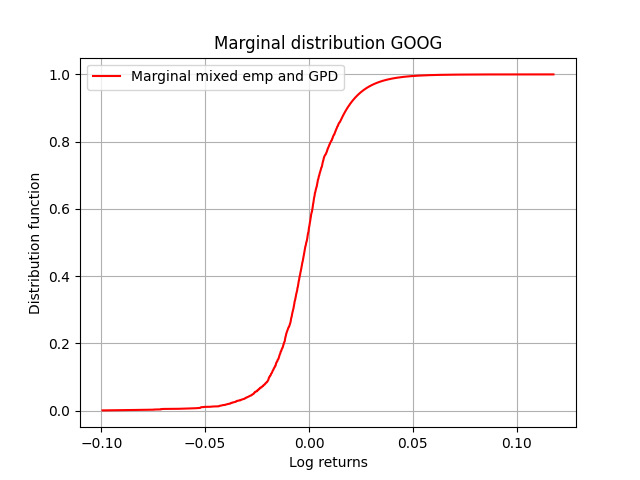
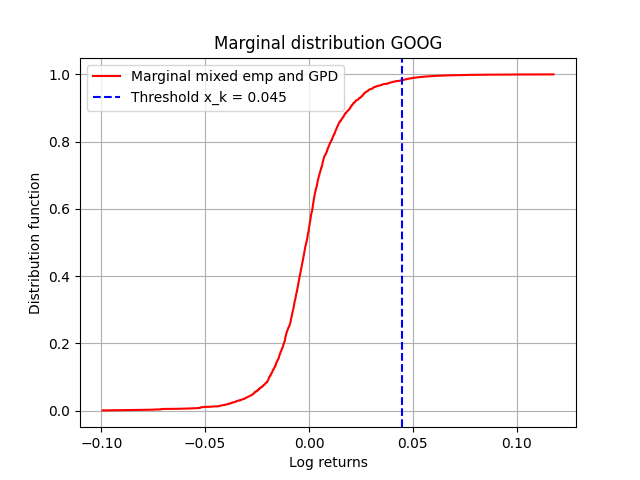
multivariate t-dist fit, only df's

Changed region(s): [[0.125, 0.1875, 0.5, 0.25], [0.5312, 0.125, 0.7188, 0.25]]

diff --git a/Mandatory assignment.py b/Mandatory assignment.py
@@ -276,24 +276,25 @@ fig, ax = plt.subplots(nrows=1, ncols=2, figsize=(10, 5))
 # Plot Google & Microsoft
 ax1 = ax[0]
 ax1.scatter(goog_neg, msft_neg, color='blue', s=1, label="Empirical Data")
-ax1.scatter(sim_goog, sim_msft, color='red', s=1, alpha=0.5, label="Simulated Data")
+ax1.scatter(sim_goog, sim_msft, color='red', s=1, alpha=0.5, label=f"Simulated Data (df={nu_pf1:.2f})")
 ax1.grid()
 ax1.set_xlabel('Google')
 ax1.set_ylabel('Microsoft')
-ax1.set_title('Log Returns: Google & Microsoft')
+ax1.set_title('Negative Log Returns: Google & Microsoft')
 ax1.legend()
 
 # Plot Merck & IDU
 ax2 = ax[1]
 ax2.scatter(mrk_neg, idu_neg, color='blue', s=1, label="Empirical Data")
-ax2.scatter(sim_mrk, sim_idu, color='red', s=1, alpha=0.5, label="Simulated Data")
+ax2.scatter(sim_mrk, sim_idu, color='red', s=1, alpha=0.5, label=f"Simulated Data (df={nu_pf2:.2f})")
 ax2.grid()
 ax2.set_xlabel('Merck')
 ax2.set_ylabel('IDU')
-ax2.set_title('Log Returns: Merck & IDU')
+ax2.set_title('Negative Log Returns: Merck & IDU')
 ax2.legend()
 
 fig.tight_layout()
+plt.savefig('Figures/Multivariate-t_plot.png')
 plt.show()
 
 ### 4. Copula approach.
@@ -303,18 +304,19 @@ plt.show()
 # Over u, use Pareto Tail.
 i_list = [0,1,2,3]
 for X,thres,name,i in zip([goog_neg,msft_neg,mrk_neg,idu_neg],u_list,name_list,i_list):
-    x_sorted = - np.sort(-X) # Sort decending. 
+    x_sorted = - np.sort(-X) # Sort descending. 
     n = x_sorted.shape[0]
     beta_est = beta_list[i]
-    gamma_est = beta_list[i]
-    # Get exesses axcross 
-    F_marginal = u.GPD_emp(np.sort(x_sorted),x_k,beta_est,gamma_est)
-    F_emp = np.cumsum(np.ones(n)*1/(n))
+    gamma_est = gamma_list[i]
+    # Get excesses across 
+    x_k = thres
+    F_marginal = u.GPD_emp(np.sort(x_sorted), x_k, beta_est, gamma_est)
+    #F_emp = np.cumsum(np.ones(n) * 1 / n)
 
     # Add empirical
-    plt.plot(np.sort(x_sorted),F_marginal, color='red',
-             label = 'Marginal mixed emp and GPD')
-    plt.legend()
+    plt.plot(np.sort(x_sorted), F_marginal, color='red', label='Marginal mixed emp and GPD')
+    plt.axvline(x=x_k, color='blue', linestyle='--', label=f'Threshold x_k = {x_k:.3f}')
+    plt.legend(loc='upper left')
     plt.xlabel("Log returns")
     plt.ylabel("Distribution function")
     plt.grid()
